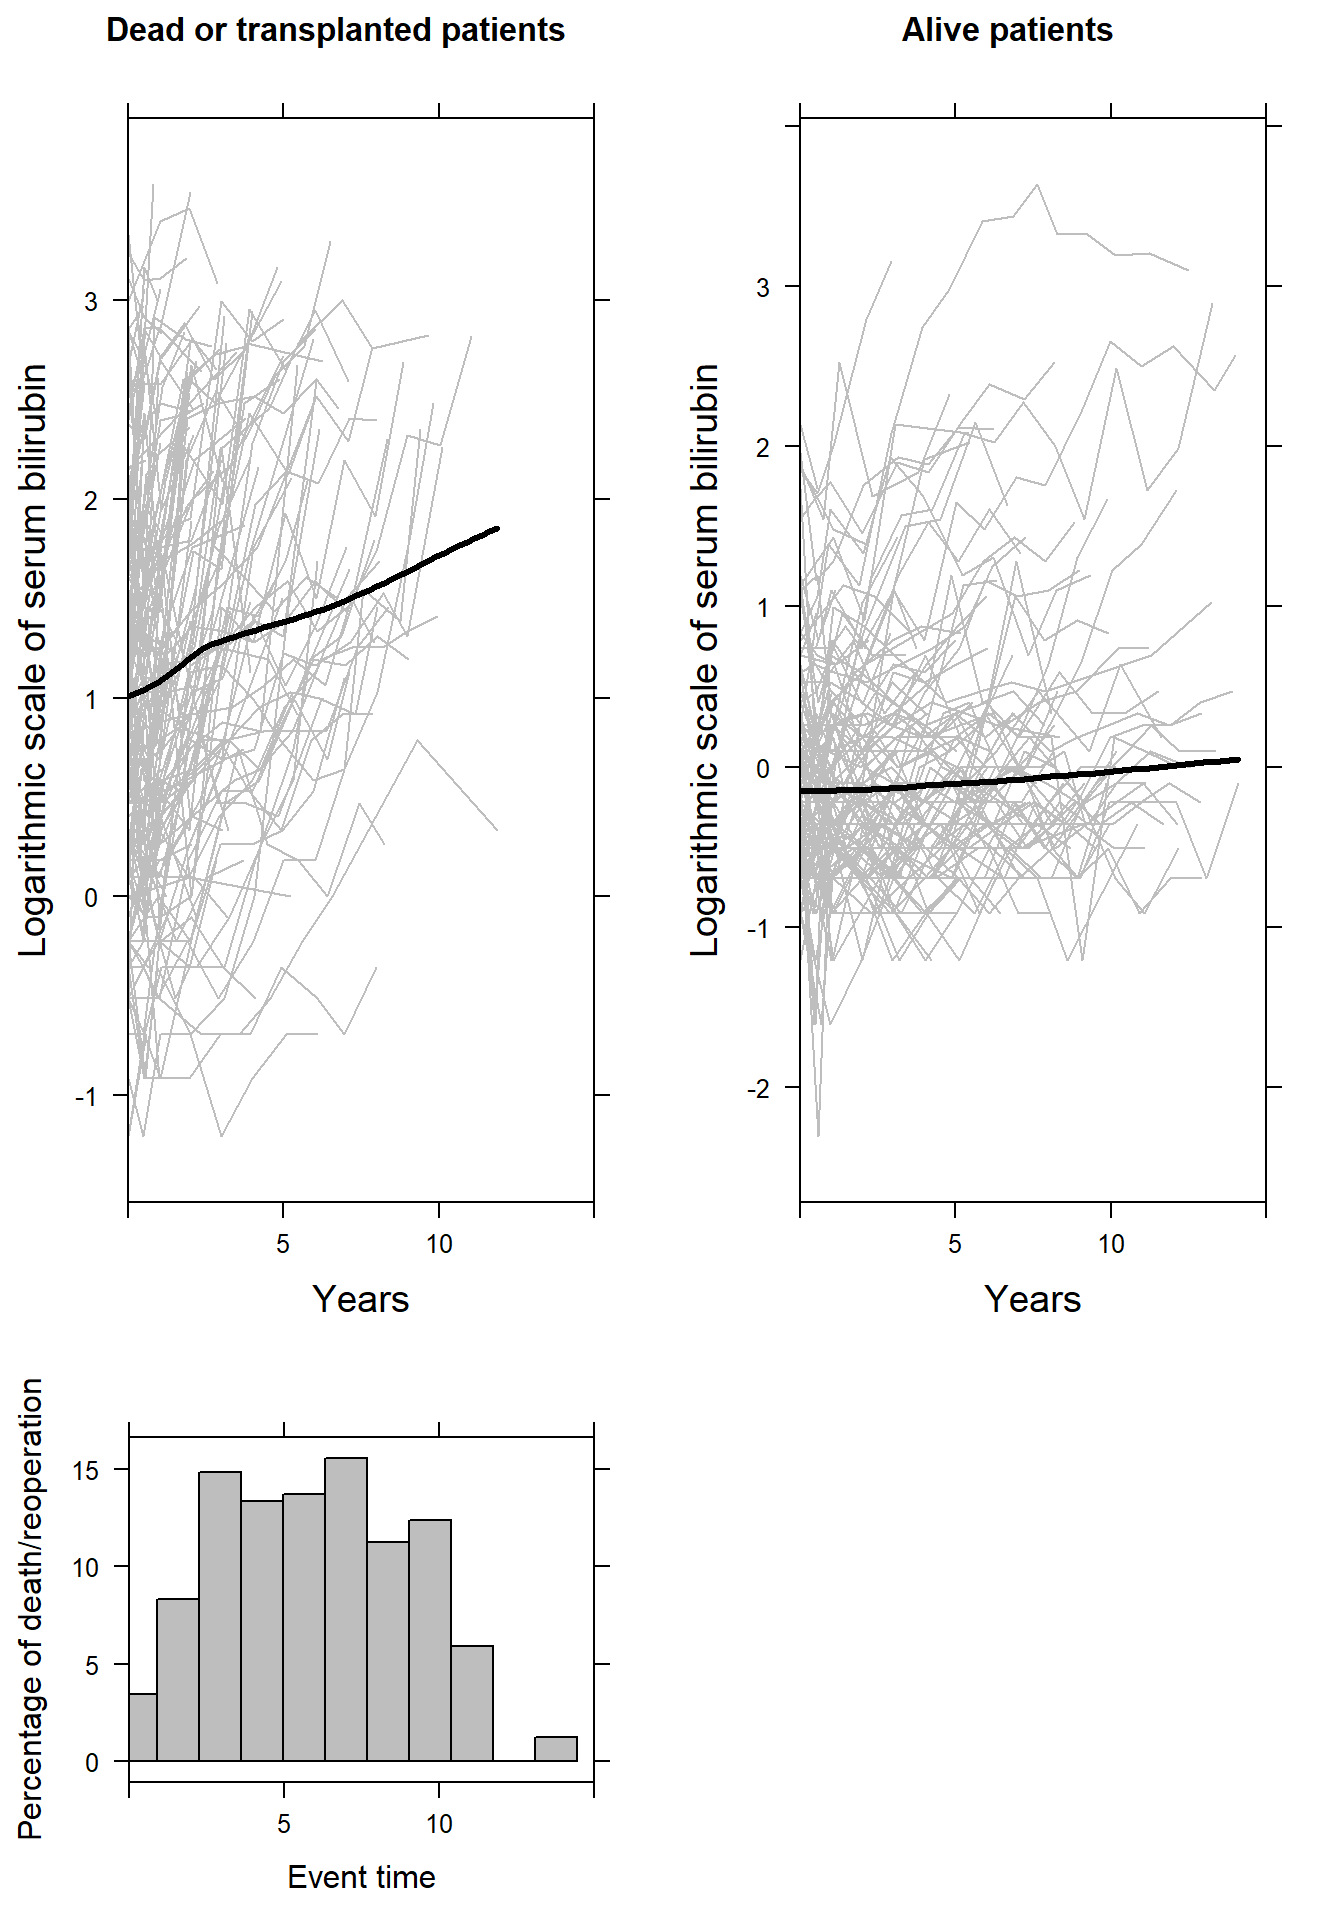
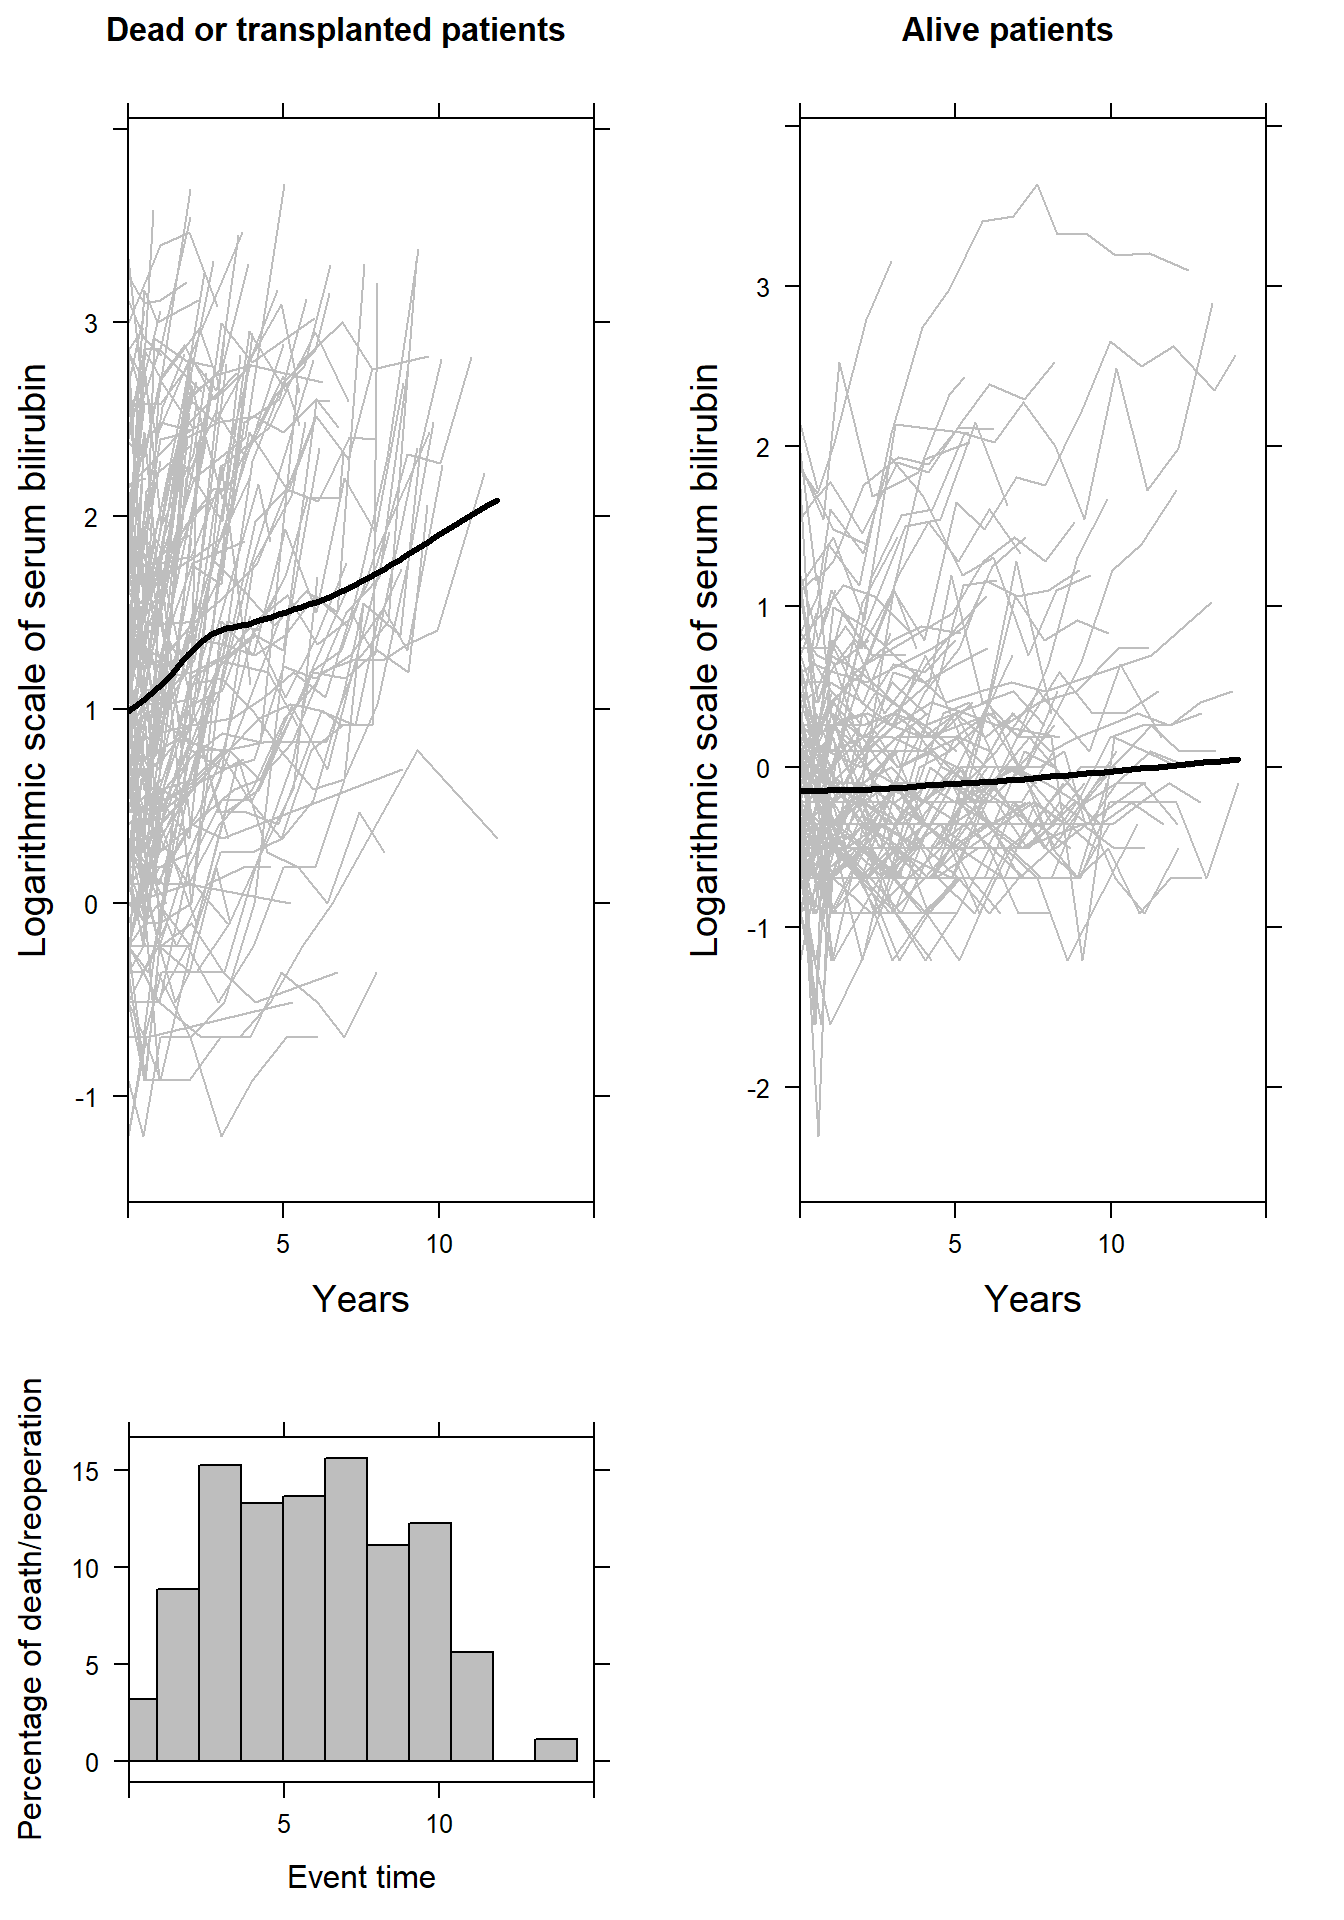
Equation updated after 2nd revision

Changed region(s): [[0.0625, 0.0938, 0.375, 0.5625], [0.1562, 0.75, 0.1875, 0.7812], [0.125, 0.8125, 0.1562, 0.8438]]

diff --git a/about.html b/about.html
@@ -381,36 +381,36 @@ div.tocify {
 
 <p>The pbc2 and pbc2.id data sets are used from the <code>JMbayes</code> package in <code>R</code>. The long format data set is called <code>pbc2</code>:</p>
 <pre class="r"><code>head(pbc2)</code></pre>
-<pre><code>  id    years status      drug      age    sex      year ascites hepatomegaly spiders                   edema serBilir serChol albumin alkaline  SGOT
-1  1  1.09517   dead D-penicil 58.76684 female 0.0000000     Yes          Yes     Yes edema despite diuretics     14.5     261    2.60     1718 138.0
-2  1  1.09517   dead D-penicil 58.76684 female 0.5256817     Yes          Yes     Yes edema despite diuretics     21.3      NA    2.94     1612   6.2
-3  2 14.15234  alive D-penicil 56.44782 female 0.0000000      No          Yes     Yes                No edema      1.1     302    4.14     7395 113.5
-4  2 14.15234  alive D-penicil 56.44782 female 0.4983025      No          Yes     Yes                No edema      0.8      NA    3.60     2107 139.5
-5  2 14.15234  alive D-penicil 56.44782 female 0.9993429      No          Yes     Yes                No edema      1.0      NA    3.55     1711 144.2
-6  2 14.15234  alive D-penicil 56.44782 female 2.1027270      No          Yes     Yes                No edema      1.9      NA    3.92     1365 144.2
-  platelets prothrombin histologic status2 fitted_linear fitted_nonlinear
-1       190        12.2          4       1    15.6779416        15.103772
-2       183        11.2          4       1    17.7926729        19.190468
-3       221        10.6          3       0     0.9261698         1.013506
-4       188        11.0          3       0     1.1286476         1.080198
-5       161        11.6          3       0     1.3322379         1.181815
-6       122        10.6          3       0     1.7805816         1.605727</code></pre>
+<pre><code>  id    years status      drug      age    sex      year ascites hepatomegaly spiders                   edema serBilir serChol albumin alkaline  SGOT platelets
+1  1  1.09517   dead D-penicil 58.76684 female 0.0000000     Yes          Yes     Yes edema despite diuretics     14.5     261    2.60     1718 138.0       190
+2  1  1.09517   dead D-penicil 58.76684 female 0.5256817     Yes          Yes     Yes edema despite diuretics     21.3      NA    2.94     1612   6.2       183
+3  2 14.15234  alive D-penicil 56.44782 female 0.0000000      No          Yes     Yes                No edema      1.1     302    4.14     7395 113.5       221
+4  2 14.15234  alive D-penicil 56.44782 female 0.4983025      No          Yes     Yes                No edema      0.8      NA    3.60     2107 139.5       188
+5  2 14.15234  alive D-penicil 56.44782 female 0.9993429      No          Yes     Yes                No edema      1.0      NA    3.55     1711 144.2       161
+6  2 14.15234  alive D-penicil 56.44782 female 2.1027270      No          Yes     Yes                No edema      1.9      NA    3.92     1365 144.2       122
+  prothrombin histologic status2 fitted_linear fitted_nonlinear
+1        12.2          4       1    14.6150217       14.3736831
+2        11.2          4       1    17.3543233       18.7686245
+3        10.6          3       0     0.9071723        0.9303952
+4        11.0          3       0     1.1124464        1.0888813
+5        11.6          3       0     1.3188483        1.2586718
+6        10.6          3       0     1.7733837        1.6945687</code></pre>
 <p>The wide format data set is called <code>pbc2.id</code>.</p>
 <pre class="r"><code>head(pbc2.id)</code></pre>
-<pre><code>   id     years       status      drug      age    sex year ascites hepatomegaly spiders                   edema serBilir serChol albumin alkaline  SGOT
-1   1  1.095170         dead D-penicil 58.76684 female    0     Yes          Yes     Yes edema despite diuretics     14.5     261    2.60     1718 138.0
-3   2 14.152338        alive D-penicil 56.44782 female    0      No          Yes     Yes                No edema      1.1     302    4.14     7395 113.5
-12  3  2.770781         dead D-penicil 70.07447   male    0      No           No      No      edema no diuretics      1.4     176    3.48      516  96.1
-16  4  5.270507         dead D-penicil 54.74209 female    0      No          Yes     Yes      edema no diuretics      1.8     244    2.54     6122  60.6
-23  5  4.120578 transplanted   placebo 38.10645 female    0      No          Yes     Yes                No edema      3.4     279    3.53      671 113.2
-29  6  6.853028         dead   placebo 66.26054 female    0      No          Yes      No                No edema      0.8     248    3.98      944  93.0
-   platelets prothrombin histologic status2
-1        190        12.2          4       1
-3        221        10.6          3       0
-12       151        12.0          4       1
-16       183        10.3          4       1
-23       136        10.9          3       0
-29        NA        11.0          3       1</code></pre>
+<pre><code>  id     years       status      drug      age    sex year ascites hepatomegaly spiders                   edema serBilir serChol albumin alkaline  SGOT platelets
+1  1  1.095170         dead D-penicil 58.76684 female    0     Yes          Yes     Yes edema despite diuretics     14.5     261    2.60     1718 138.0       190
+2  2 14.152338        alive D-penicil 56.44782 female    0      No          Yes     Yes                No edema      1.1     302    4.14     7395 113.5       221
+3  3  2.770781         dead D-penicil 70.07447   male    0      No           No      No      edema no diuretics      1.4     176    3.48      516  96.1       151
+4  4  5.270507         dead D-penicil 54.74209 female    0      No          Yes     Yes      edema no diuretics      1.8     244    2.54     6122  60.6       183
+5  5  4.120578 transplanted   placebo 38.10645 female    0      No          Yes     Yes                No edema      3.4     279    3.53      671 113.2       136
+6  6  6.853028         dead   placebo 66.26054 female    0      No          Yes      No                No edema      0.8     248    3.98      944  93.0        NA
+  prothrombin histologic status2
+1        12.2          4       1
+2        10.6          3       0
+3        12.0          4       1
+4        10.3          4       1
+5        10.9          3       0
+6        11.0          3       1</code></pre>
 <div id="longitudinal-outcome" class="section level1">
 <h1>Longitudinal outcome</h1>
 <pre class="r"><code>p1 &lt;- xyplot(log(serBilir) ~ year, groups = id, 

diff --git a/index.html b/index.html
@@ -11,7 +11,7 @@
 
 <meta name="author" content="Eleni-Rosalina Andrinopoulou, Department of Biostatistics, Erasmus Medical Center" />
 
-<meta name="date" content="2020-11-02" />
+<meta name="date" content="2020-11-26" />
 
 <title>Dynamic prediction using joint models of longitudinal and time-to-event data</title>
 
@@ -379,7 +379,7 @@ div.tocify {
 
 <h1 class="title toc-ignore">Dynamic prediction using joint models of longitudinal and time-to-event data</h1>
 <h4 class="author">Eleni-Rosalina Andrinopoulou, Department of Biostatistics, Erasmus Medical Center</h4>
-<h4 class="date">02 November 2020</h4>
+<h4 class="date">26 November 2020</h4>
 
 </div>
 
@@ -518,10 +518,9 @@ plot(ef, ylab = list(&quot;Logarithmic scale of serum bilirubin&quot;, cex = 1.2
 <div id="further-explanation-for-equation-5" class="section level3">
 <h3>Further explanation for equation (5)</h3>
 <p>The first term of the integrand in (4) can be written as <span class="math display">\[\begin{eqnarray}
-\nonumber\mbox{Pr}(T^*_{l} \geq u \mid  T^*_{l}&gt; t, \tilde{y}_{l}(t);\boldsymbol{\theta})=\\
-&amp;&amp;\nonumber\int \mbox{Pr}(T^*_{l} \geq u\mid T^*_{l}&gt; t, \tilde{y}_{l}(t), \boldsymbol{b}_{l};\boldsymbol{\theta})p(\boldsymbol{b}_{l}\mid  T^*_{l}&gt; t, \tilde{y}_{l}(t);\boldsymbol{\theta})d\boldsymbol{b}_{l}=\\
-&amp;&amp;\nonumber\int \mbox{Pr}(T^*_{l} \geq u\mid T^*_{l}&gt; t, \boldsymbol{b}_{l};\boldsymbol{\theta})p(\boldsymbol{b}_{l}\mid  T^*_{l}&gt; t, \tilde{y}_{l}(t);\boldsymbol{\theta})d\boldsymbol{b}_{l}=\\
-&amp;&amp;\int\frac{S(u \mid \boldsymbol{b}_{l};\boldsymbol{\theta})}{S(t \mid \boldsymbol{b}_{l};\boldsymbol{\theta})}p(\boldsymbol{b}_{l}\mid T^*_{l}&gt; t, \tilde{y}_{l}(t);\boldsymbol{\theta})d\boldsymbol{b}_{l},
+\nonumber\mbox{Pr}(T^*_{l} \geq u \mid  T^*_{l}&gt; t, \tilde{y}_{l}(t);\boldsymbol{\theta})&amp;&amp;=\nonumber\int \mbox{Pr}(T^*_{l} \geq u\mid T^*_{l}&gt; t, \tilde{y}_{l}(t), \boldsymbol{b}_{l};\boldsymbol{\theta})p(\boldsymbol{b}_{l}\mid  T^*_{l}&gt; t, \tilde{y}_{l}(t);\boldsymbol{\theta})d\boldsymbol{b}_{l}\\
+&amp;&amp;=\nonumber\int \mbox{Pr}(T^*_{l} \geq u\mid T^*_{l}&gt; t, \boldsymbol{b}_{l};\boldsymbol{\theta})p(\boldsymbol{b}_{l}\mid  T^*_{l}&gt; t, \tilde{y}_{l}(t);\boldsymbol{\theta})d\boldsymbol{b}_{l}\\
+&amp;&amp;=\int\frac{S(u \mid \boldsymbol{b}_{l};\boldsymbol{\theta})}{S(t \mid \boldsymbol{b}_{l};\boldsymbol{\theta})}p(\boldsymbol{b}_{l}\mid T^*_{l}&gt; t, \tilde{y}_{l}(t);\boldsymbol{\theta})d\boldsymbol{b}_{l},
 \label{Pr1}
 \end{eqnarray}\]</span> where <span class="math inline">\(S(. \mid \boldsymbol{b}_{l};\boldsymbol{\theta})\)</span> denotes the conditional survival function on the random effects of patient <span class="math inline">\(l\)</span>. The simplification from line 2 to line 3 is achieved under the assumption that the longitudinal and the survival outcomes are independent, given the random effects.</p>
 <pre class="r"><code>newdata_5 &lt;- pbc2[pbc2$id == 5, ]
